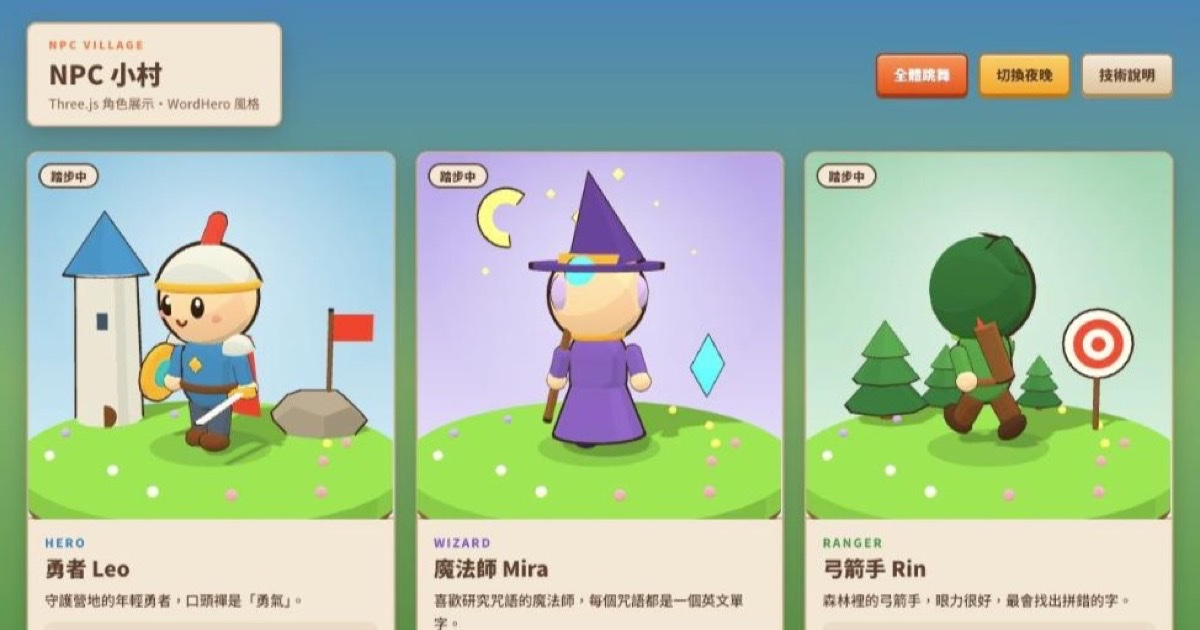
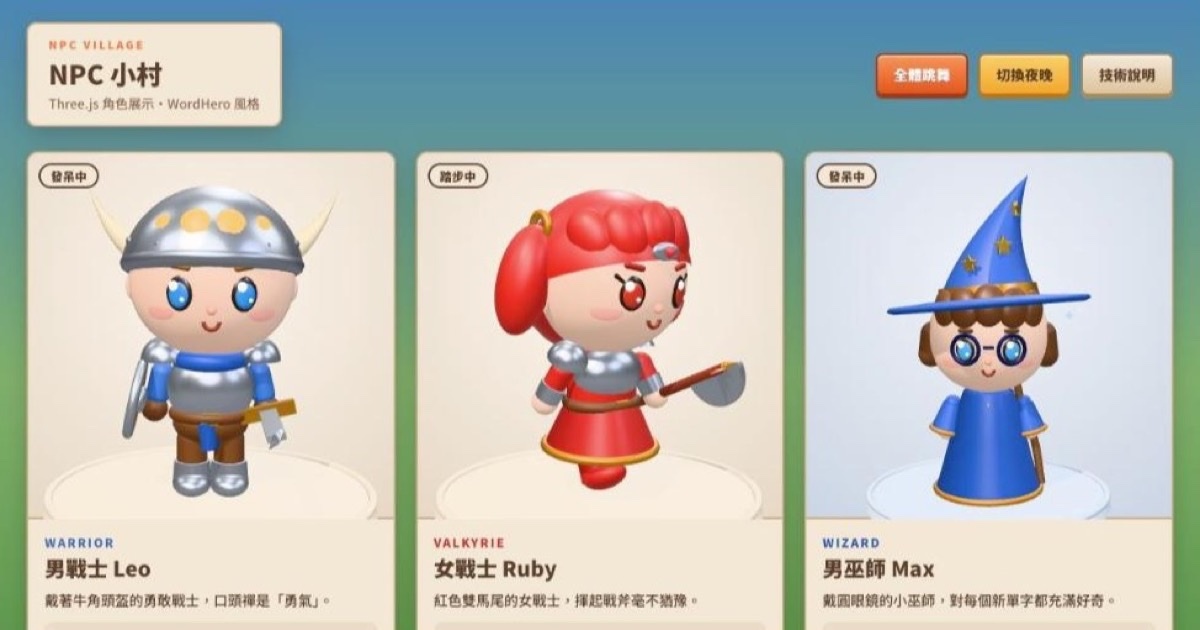
更新 README、技術說明與分享預覽圖為公仔畫風版本

diff --git a/index.html b/index.html
@@ -4,12 +4,12 @@
     <meta charset="utf-8" />
     <meta name="viewport" content="width=device-width, initial-scale=1, viewport-fit=cover" />
     <title>NPC 小村 NPC VILLAGE</title>
-    <meta name="description" content="用 Three.js 繪製的 Q 版 NPC 角色展示：勇者、魔法師、弓箭手、商人、史萊姆、小精靈，每個角色在自己的格子裡發呆、踏步、眨眼、做特殊動作。" />
+    <meta name="description" content="用 Three.js 繪製的 Q 版 NPC 角色展示：戰士、巫師、女巫、弓箭手、王子、公主、噴火龍，每個角色在自己的格子裡發呆、踏步、眨眼、做特殊動作。" />
     <meta name="theme-color" content="#3d6d8c" />
     <link rel="canonical" href="https://fishtoyo.github.io/npc-village/" />
     <meta property="og:type" content="website" />
     <meta property="og:title" content="NPC 小村 NPC VILLAGE" />
-    <meta property="og:description" content="用 Three.js 繪製的 Q 版 NPC 角色展示：每個角色在自己的格子裡踏步、眨眼、施法、跳舞，還會說英文單字。" />
+    <meta property="og:description" content="用 Three.js 繪製的軟膠公仔風 Q 版角色：戰士、巫師、弓箭手、王子、公主、噴火龍，會眨眼、施法、跳舞，還會說英文單字。" />
     <meta property="og:url" content="https://fishtoyo.github.io/npc-village/" />
     <meta property="og:image" content="https://fishtoyo.github.io/npc-village/assets/og.jpg" />
     <meta property="og:image:width" content="1200" />
@@ -58,13 +58,14 @@
           <p>所有角色都是用程式即時組出來的（球、膠囊、圓錐、圓柱），沒有載入任何 3D 模型檔或圖片。</p>
           <ul>
             <li><b>一個畫布、多個舞台</b>：整頁只有一個 WebGL 畫布，用 scissor 把 6 個小場景分別畫進每張卡片的位置；捲到畫面外的卡片不會繪製。</li>
-            <li><b>卡通著色（Toon Shading）</b>：<code>MeshToonMaterial</code> 搭配三階漸層貼圖，光影呈現色塊感。</li>
-            <li><b>描邊</b>：每個零件複製一份放大、只畫背面的網格（inverted hull），做出卡通黑邊。</li>
+            <li><b>公仔質感</b>：<code>MeshPhysicalMaterial</code> 加亮面塗層（clearcoat），光影柔和，像軟膠公仔。</li>
+            <li><b>環境反射</b>：<code>RoomEnvironment</code> 產生攝影棚環境貼圖，頭盔、皇冠、劍等金屬部位會有真實反光。</li>
+            <li><b>造型手法</b>：旋轉體（Lathe）做裙子與長袍、擠出（Extrude）做星星、彎曲圓錐做牛角與帽尖、曲線管做木杖。</li>
             <li><b>Q 版骨架</b>：身體、頭、手、腳各有關節，用程式計算旋轉角度做踏步、揮手、跳舞。</li>
             <li><b>角色行為</b>：發呆 → 原地踏步（順便轉一圈展示側面與背面）→ 偶爾做特殊動作，還會眨眼、東張西望。</li>
-            <li><b>擠壓伸展</b>：史萊姆落地壓扁、彈起拉長，是動畫的經典原則。</li>
-            <li><b>粒子特效</b>：魔法、金幣、劍光、星星，使用物件池重複利用。</li>
-            <li><b>動態光源與陰影</b>：每個舞台有自己的燈光與即時陰影；夜晚模式下魔法寶珠的點光源會照亮周圍。</li>
+            <li><b>表情</b>：眨眼、說話時嘴巴開合、跳舞時笑瞇眼、特殊動作時皺眉。</li>
+            <li><b>粒子特效</b>：魔法、劍光、火焰、星星，使用物件池重複利用。</li>
+            <li><b>動態光源與陰影</b>：每個舞台有自己的燈光與即時陰影；夜晚模式下巫師木杖的點光源會照亮周圍。</li>
           </ul>
           <p>想要更精緻的角色，可以用 Blender／Spline 製作模型（.glb）搭配骨骼動畫載入。</p>
         </div>

diff --git a/README.md b/README.md
@@ -1,35 +1,35 @@
 # NPC 小村 NPC VILLAGE
 
-用 Three.js 繪製的 Q 版 NPC 角色展示，風格參考 [單字英雄 WordHero](https://www.wordhero.tw/)。
+用 Three.js 繪製的 Q 版 NPC 角色展示。畫風依照設計參考圖：軟膠公仔質感、大頭大眼、塊狀頭髮、單色背景＋圓形底座；介面沿用 [單字英雄 WordHero](https://www.wordhero.tw/) 的遊戲風格。
 
 **線上展示：** https://fishtoyo.github.io/npc-village/
 
-所有角色與場景都是用程式即時組出來的（球、膠囊、圓錐、圓柱），沒有載入任何 3D 模型檔或圖片。
+所有角色都是用程式即時組出來的（球、膠囊、圓錐、圓柱、旋轉體），沒有載入任何 3D 模型檔或圖片。
 
 ## 角色
 
 | 角色 | 特殊動作 | 展示的技術 |
 |---|---|---|
-| 勇者 Leo | 揮劍 | 關節動畫、披風擺動、組合式道具（頭盔、劍、盾） |
-| 魔法師 Mira | 施法 | 自發光材質＋點光源（夜晚寶珠會照亮周圍）、魔法粒子 |
-| 弓箭手 Rin | 射箭 | 部分球體幾何（兜帽）、Torus 弧形弓、拉弓動作 |
-| 商人 Bob | 叫賣 | 多個幾何組合（背包、草帽、鬍子）、金幣粒子與重力 |
-| 史萊姆 Puru | 大跳躍 | 擠壓伸展（squash & stretch） |
-| 小精靈 Tink | 空翻 | 飛行路徑、翅膀拍動、半透明材質 |
-| 貓頭鷹老師 Hoot | 出題 | 非人形骨架（翅膀關節）、眼鏡與學士帽組合、搖擺走路 |
-| 小龍 Draco | 噴火 | 尾巴與翅膀的次要動作、有方向的火焰粒子 |
-| 公主 Aria | 轉圈 | 裙子與長髮的層次組合、皇冠寶石、身體旋轉 |
+| 男戰士 Leo | 揮劍 | 金屬材質＋環境反射、彎曲圓錐做牛角、揮劍關節動畫 |
+| 女戰士 Ruby | 揮斧 | 雙馬尾的拉長球體、半圓柱斧刃、羽毛裝飾 |
+| 男巫師 Max | 施法 | 旋轉體（Lathe）做長袍與帽簷、擠出（Extrude）做星星、曲線管做木杖 |
+| 女巫 Luna | 魔法 | 條紋襪、蓬裙蕾絲、肩上黑貓的尾巴擺動 |
+| 男弓箭手 Robin | 射箭 | 羅賓漢帽與羽毛、斜背箭筒、拉弓動作 |
+| 女弓箭手 Ivy | 射箭 | 高馬尾隨走路擺動、葉片短裙、彩虹箭羽 |
+| 王子 Arthur | 舉劍 | 金屬皇冠、開口圓柱做披風、金色光點粒子 |
+| 公主 Aria | 轉圈 | 多層旋轉體禮服、蕾絲裙襬、長捲髮、雙手合十姿勢 |
+| 噴火龍 Draco | 噴火 | 自發光火焰、有方向的火焰粒子、翅膀與尾巴的次要動作 |
 
 每個角色一張卡片，在自己的小舞台裡原地動作：發呆、東張西望、眨眼、原地踏步（順便轉一圈展示側面與背面），偶爾做特殊動作。
 
 **表情**：說話時嘴巴開合、眉毛上揚；跳舞時笑瞇眼（^ ^）；做特殊動作時皺眉張嘴。
 
-**舞台**：每張卡片有專屬天空色、背景布景（城堡塔、月亮星星、松樹、市集攤位、池塘、大花、黑板、岩石與岩漿、玫瑰拱門）與小道具，加上輪廓光與腳下的柔和陰影。
+**質感**：`MeshPhysicalMaterial` 加亮面塗層（clearcoat），搭配 `RoomEnvironment` 環境反射，做出軟膠公仔的光澤；金屬部位（頭盔、皇冠、劍）有真實反光。
 
 ## 操作
 
 - 點角色或「說話」：打招呼並說一句英文台詞
-- 特殊動作按鈕：揮劍、施法、射箭、叫賣、大跳躍、空翻
+- 特殊動作按鈕：揮劍、揮斧、施法、魔法、射箭、舉劍、轉圈、噴火
 - 上方按鈕：**全體跳舞**、**切換夜晚**、**技術說明**
 
 ## 運作方式
@@ -54,15 +54,15 @@ assets/css/style.css       WordHero 風格的面板與按鈕
 assets/js/main.js          卡片、單一畫布多舞台繪製、按鈕
 assets/js/characters.js    6 個角色的造型與動作（新增角色從這裡開始）
 assets/js/actor.js         角色行為（發呆／踏步轉圈／特殊動作／打招呼／跳舞）
-assets/js/stage.js         每張卡片的小舞台：草地圓台、燈光、專屬道具
-assets/js/toon.js          卡通著色與描邊
+assets/js/stage.js         每張卡片的小舞台：圓形底座、攝影棚打光、自動取景
+assets/js/materials.js     公仔材質（物理材質＋亮面塗層）
 assets/js/particles.js     粒子系統
 assets/vendor/three/       Three.js r170（MIT License）
 ```
 
 ## 新增角色
 
-1. 在 `assets/js/characters.js` 寫一個建立函式：用 `humanoid({ body, legs, shoes })` 做出 Q 版身體，再加上帽子、道具，`animate()` 裡呼叫 `pose()` 和 `applyPose()` 就有走路、眨眼、跳舞。
-2. 在同一檔案的 `CHARACTERS` 陣列加一筆資料（名字、顏色、速度、台詞、特殊動作名稱）。
-3. 想要專屬場景，在 `assets/js/stage.js` 的 `BACKDROPS`（背景）與 `PROPS`（小道具）各加一個同 id 的函式；卡片天空色在 `CHARACTERS` 的 `sky` 欄位設定。
-4. 非人形角色（例如貓頭鷹、小龍）可以自己組骨架，記得呼叫 `express()` 讓表情與眨眼生效。
+1. 在 `assets/js/characters.js` 寫一個建立函式：用 `figure({ shirt, pants, boots, faceOpts })` 做出 Q 版身體，`hair()` 加頭髮，再加上帽子、衣服、道具；`animate()` 裡呼叫 `pose()` 和 `applyPose()` 就有踏步、眨眼、表情、跳舞。
+2. 在同一檔案的 `CHARACTERS` 陣列加一筆資料（名字、顏色、背景 `bg: "beige"` 或 `"blue"`、台詞、特殊動作名稱）。
+3. 特殊動作可以直接套用 `swing()`（揮砍）、`cast()`（施法）、`shoot()`（射箭）。
+4. 非人形角色（例如噴火龍）可以自己組骨架，記得呼叫 `express()` 讓表情與眨眼生效。

diff --git a/TODO.md b/TODO.md
@@ -5,7 +5,8 @@
 ## 第三輪（依 Gemini 參考圖改版）
 - 已改成軟膠公仔畫風：物理材質＋亮面塗層、環境反射、沒有描邊、單色背景＋圓底座
 - 角色換成參考圖的 9 位：男戰士、女戰士、男巫師、女巫（含黑貓）、男弓箭手、女弓箭手、王子、公主、噴火龍
-- 待做：README 與「技術說明」視窗的文字還是舊版（卡通著色、描邊），要更新；分享預覽圖 og.jpg 要重拍；手機版要再測一次
+- README、技術說明、分享預覽圖已更新
+- 還可以更貼近參考圖：頭髮更平滑、男戰士的劍更大、公主的蕾絲更細
 
 ## 現況
 - 9 個角色（勇者、魔法師、弓箭手、商人、史萊姆、小精靈、貓頭鷹老師、小龍、公主），一角色一張卡片，在格子裡原地動作。
